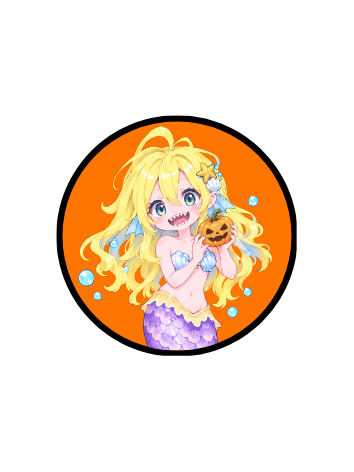
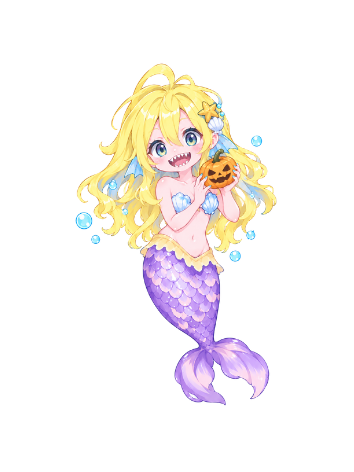
commit

Changed region(s): [[0.1554, 0.1186, 0.839, 0.8602]]

diff --git a/tests/browser/artwork.spec.ts b/tests/browser/artwork.spec.ts
@@ -142,7 +142,7 @@ async function earnStamp(page: Page, artwork: Artwork) {
     await page.getByRole("button", { name: "マップ・ずかんにもどる" }).click();
   }
   const card = page.getByRole("button", { name: `${ghost.name}ともう一度話す`, exact: true });
-  await expectArtwork(card.locator(".stamp-art .ghost-artwork"), stampSrc(artwork));
+  await expectArtwork(card.locator(".stamp-art .ghost-artwork"), characterSrc(artwork));
 }
 
 async function reopenConversation(page: Page, artwork: Artwork, repetitions = 1) {
@@ -157,7 +157,7 @@ async function reopenConversation(page: Page, artwork: Artwork, repetitions = 1)
     await expect(conversation.locator("form")).toHaveCount(0);
     await conversation.getByRole("button", { name: "閉じる", exact: true }).click();
     await expect(page.getByRole("dialog")).toHaveCount(0);
-    await expectArtwork(card.locator(".stamp-art .ghost-artwork"), stampSrc(artwork));
+    await expectArtwork(card.locator(".stamp-art .ghost-artwork"), characterSrc(artwork));
     expect(await page.evaluate((key) => localStorage.getItem(key), STORAGE_KEY)).toBe(saved);
   }
 }
@@ -201,7 +201,7 @@ for (const viewport of [{ width: 320, height: 568 }, { width: 390, height: 844 }
     await expectConcealedCards(page);
     for (const artwork of artworks.slice(0, 8)) {
       const ghost = getGhost(artwork.id)!;
-      await expectArtwork(page.getByRole("button", { name: `${ghost.name}ともう一度話す`, exact: true }).locator(".stamp-art .ghost-artwork"), stampSrc(artwork));
+      await expectArtwork(page.getByRole("button", { name: `${ghost.name}ともう一度話す`, exact: true }).locator(".stamp-art .ghost-artwork"), characterSrc(artwork));
     }
     for (const artwork of artworks.slice(8)) {
       await earnStamp(page, artwork);

diff --git a/src/routes/index.tsx b/src/routes/index.tsx
@@ -594,7 +594,7 @@ function StatusRow({
       }
     >
       <div className="stamp-art">
-        <GhostImage ghost={ghost} variant="stamp" concealed={!done} />
+        <GhostImage ghost={ghost} variant="character" concealed={!done} />
       </div>
       <div className="stamp-meta">
         <strong>NO.{String(number).padStart(3, "0")}</strong>

diff --git a/CHANGELOG.md b/CHANGELOG.md
@@ -2,6 +2,8 @@
 
 ## 2026-10-08
 
+- ホームの取得済みおばけ一覧を、オレンジの丸いスタンプ絵から背景透過の通常絵へ変更。会話の再閲覧・取得演出・会場マップは維持。
+
 - 最新の晴天・雨天1Fマップを反映し、2F・3Fは共通のまま維持。パスワード付き `/admin` とTurso専用テーブルによる全参加者共通の配置切替を追加。参加者の天気切替を撤去し、30秒ごと・復帰時に共有設定を取得。設定取得失敗時は明示し、スタンプの端末内保存・おばけ/景品の解放条件は維持。
 
 - 提供された晴天用1F〜3F会場図を反映。1F図に屋外設置も重ね、3Fのおばけ・景品受渡位置・場所案内を資料に合わせて更新。元画像は加工せず利用し、NFC取得条件・解放条件・保存データは維持。雨天は既存の図と配置を変更しない。
